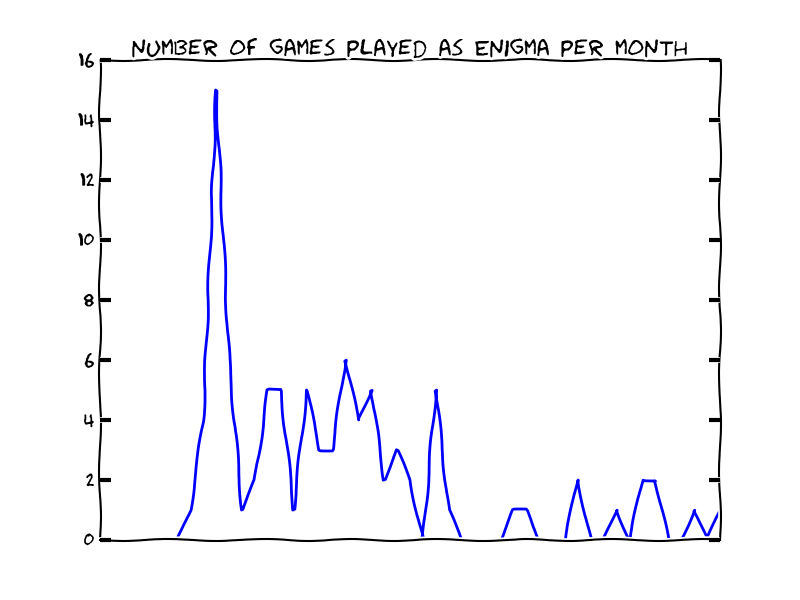
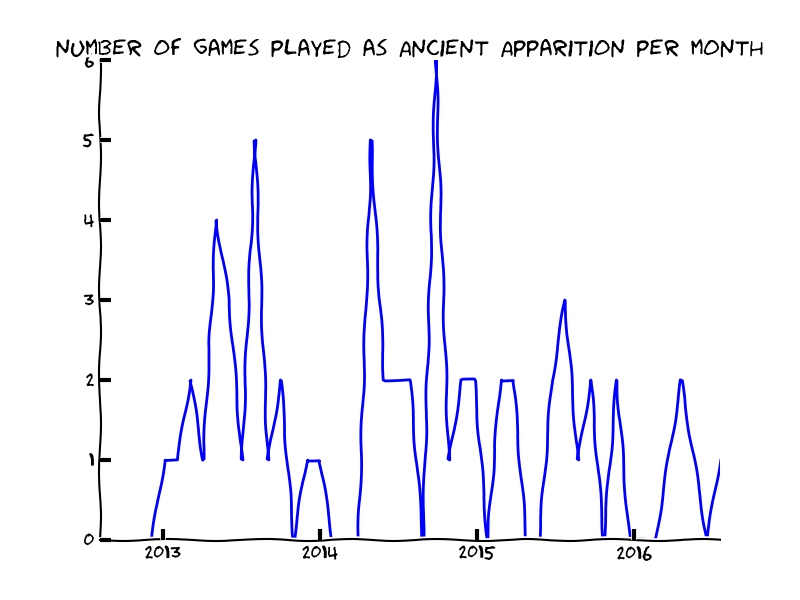
make hero_graph prettier

diff --git a/dota2bot/hero_graph.py b/dota2bot/hero_graph.py
@@ -1,11 +1,12 @@
 import pymongo
-
+import math
 import matplotlib.pyplot as plt
-from matplotlib import pylab
 from hero_dictionary import hero_dic
-
+import matplotlib.dates as mdates
 conn = pymongo.MongoClient()
 db = conn['dota-db']
+
+
 def hero_per_month(player_id, hero_id):
     match_search_args = {
                 'result.game_mode': {'$in': [0, 1, 2, 3, 4, 5, 12, 14, 16, 22]},
@@ -47,19 +48,33 @@ def hero_per_month(player_id, hero_id):
             q = 0
             m += 1
 
-    plt.figure()
     plt.xkcd()
+    plt.gca().cla()
 
     plt.title('number of games played as {} per month'.format(hero_dic[hero_id]))
 
-    x = month
     y = quantity
-    frame = pylab.gca()
 
-    frame.axes.get_xaxis().set_ticks([])
+    secs = mdates.epoch2num(month)
 
-    plt.plot(x, y)
+    ax = plt.gca()
+
+    years = mdates.YearLocator()   # every year
+    yearsFmt = mdates.DateFormatter('%Y')
+
+    ax.xaxis.set_major_locator(years)
+    ax.xaxis.set_major_formatter(yearsFmt)
+    ax.spines['right'].set_visible(False)
+    ax.spines['top'].set_visible(False)
+    ax.yaxis.set_ticks_position('left')
+    ax.xaxis.set_ticks_position('bottom')
+    tick = 5 if max(y) > 20 else 1
+    #yint = range(min(y), math.ceil(max(y))+2, tick)  # set only int ticks
+    #plt.yticks(yint)
+    plt.plot(secs, y, color='blue')
 
     plt.savefig('images/graphs/hero.png')
 
     return "{} games".format(kk)
+
+hero_per_month(56232406, 6)

diff --git a/dota2bot/exp_graph.py b/dota2bot/exp_graph.py
@@ -1,14 +1,13 @@
 from token_and_api_key import *
 import pymongo
-import numpy
-
-import matplotlib.pyplot as pyplot
+import numpy as np
+import matplotlib.pyplot as plt
 
 # in dire need of refactoring
 conn = pymongo.MongoClient()
 db = conn['dota-db']
 player_id = 56232406
-custom_args = {'result.players.account_id': player_id}
+custom_args = {'result.match_id': 2356515163}
 cursor = db['{}'.format(player_id)].find(custom_args)
 cursor.sort('result.start_time', -1)
 hist = list(cursor)
@@ -42,7 +41,7 @@ level_dic = {
     25:	2500
     }
 
-exp_diff = numpy.zeros((250, 2))
+exp_diff = np.zeros((250, 2))
 
 k = -1
 for i, player in enumerate(match['players']):
@@ -75,13 +74,24 @@ for i, obj in enumerate(time1):
     if time1[i:].count(obj) == 1:
         time2.append(time1[i])
         exp2.append(exp[i])
-
+time2.insert(0, 0)
+exp2.insert(0, 0)
 x = time2
-y = exp2
 
-h = [0, 60]
-t = [0, 0]
-pyplot.plot(x, y)
-pyplot.plot(h, t, label='$T_{7}(x)$')
-pyplot.savefig('example01.png')
-print(time2)
+# neg_exp = [0 if i >= 0 else i for i in exp2]
+# pos_exp = [0 if i <= 0 else i for i in exp2]
+
+print(pos_exp, neg_exp, time)
+plt.xkcd()
+
+# style.use('seaborn-poster')
+
+plt.title('Exp difference')
+
+
+plt.plot(x, exp2, color='blue')
+
+plt.axhline(0, color='black')
+plt.savefig('example01.png')
+
+print(max(exp2), min(exp2))
